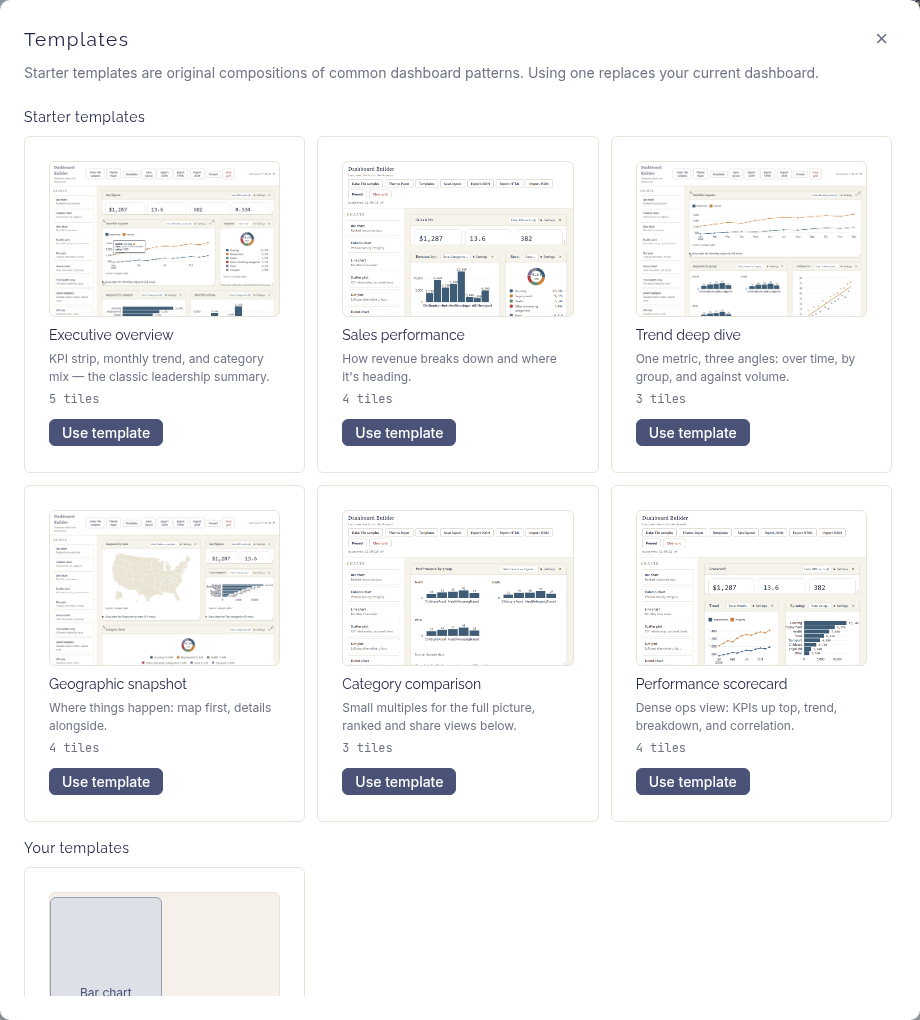
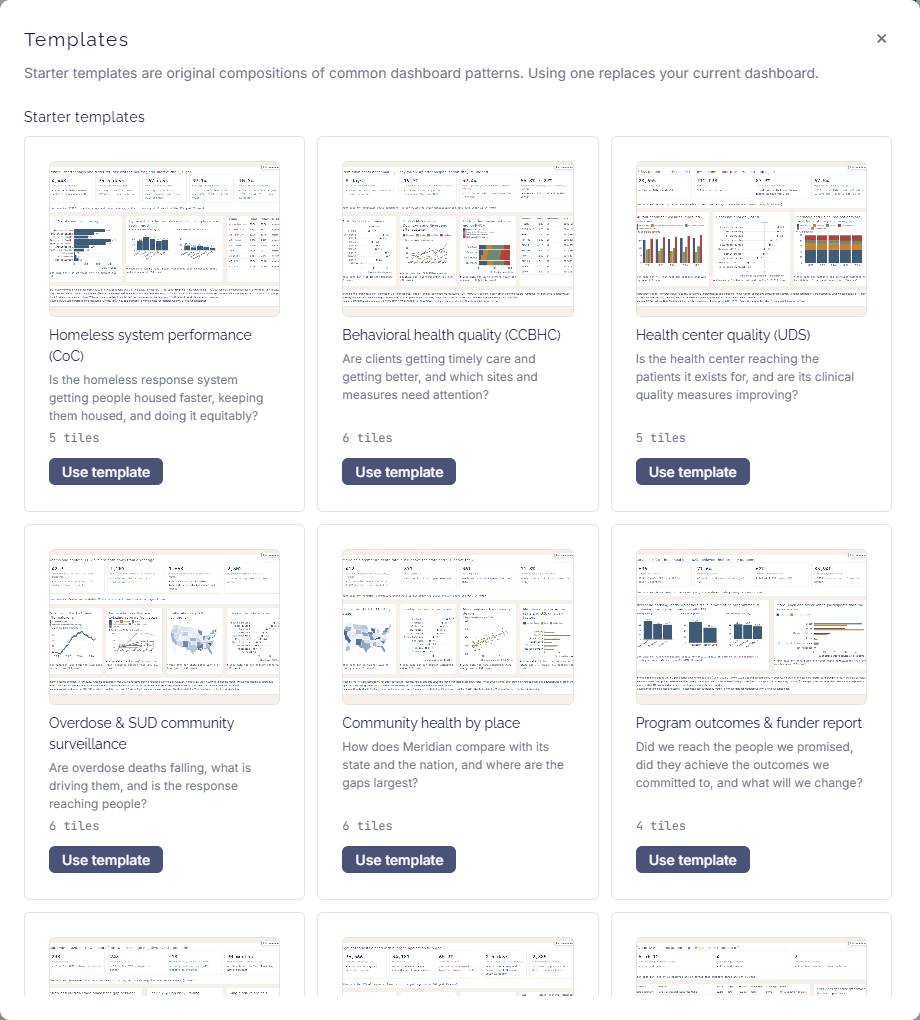
docs: recapture template gallery and demo for the exemplar main
README and docs/template-gallery.md now describe the 11 built-in
templates and the Meridian County starter. All 11 template shots are
recaptured (2880x1800, edit mode), the two cut ones are deleted, and
demo.gif is re-recorded on the new starter with the same five beats.

The capture scripts are adapted to the new starter and template set,
and spawn vite through node so they also run on Windows.

diff --git a/docs/template-gallery.md b/docs/template-gallery.md
@@ -1,35 +1,106 @@
-# Starter template gallery
+# Template gallery
 
 Open [Dashboard Builder](https://nateriera.github.io/dashboard-builder/), choose
 **More actions** → **Templates**, then select **Use template** and confirm
-**Replace** for a starter below. Replacement changes the current dashboard; use
+**Replace** for a template below. Replacement changes the current dashboard; use
 **More actions** → **Export JSON** first to keep a backup.
-These original layouts use built-in sample data, not client records.
+These original layouts use built-in sample data, not client records: the
+Meridian County figures are synthetic, for a fictitious jurisdiction.
+The templates appear here in the same order as the in-app gallery.
+
+## Homeless system performance (CoC)
+
+KPI strip of System Performance Measures, exits by destination, small multiples
+by race, and a year-over-year measures table.
+Use this to report whether a homeless response system is housing people faster,
+keeping them housed, and doing it equitably.
+
+![Homeless system performance (CoC)](screenshots/template-homeless-system-performance.png)
+
+## Behavioral health quality (CCBHC)
+
+KPI strip, measures against benchmark, a site-level remission trend, PHQ-9
+outcome bands by site, and a full measures table with numerators and
+denominators.
+Use this for a clinic or CCBHC quality review.
+
+![Behavioral health quality (CCBHC)](screenshots/template-behavioral-health-quality.png)
+
+## Health center quality (UDS)
+
+KPI strip, yearly clinical quality measures, measures against national rates,
+and payer mix by year.
+Use this for a community health center's UDS-style quality summary.
+
+![Health center quality (UDS)](screenshots/template-health-center-quality.png)
+
+## Overdose & SUD community surveillance
+
+KPI strip, the overdose death-rate trend, deaths by drug, a state map, and the
+highest state rates.
+Use this for public-health surveillance of overdose and the response to it.
+
+![Overdose & SUD community surveillance](screenshots/template-overdose-surveillance.png)
+
+## Community health by place
+
+KPI strip, a state map of uninsured rates, the highest rates, an uninsured vs
+early-death scatter plot, and county vs state vs U.S. comparisons.
+Use this to show where a community stands against its state and the nation.
+
+![Community health by place](screenshots/template-community-health-by-place.png)
+
+## Program outcomes & funder report
+
+KPI strip, outcomes by program as small multiples, and participants compared
+with the service area.
+Use this for a funder report on reach, outcomes and what will change.
+
+![Program outcomes & funder report](screenshots/template-program-outcomes.png)
+
+## System flow: inflow, outflow & actively homeless
+
+KPI strip, monthly inflow and outflow, the actively homeless count, and the
+count by household type.
+Use this to track a by-name list month by month.
+
+![System flow: inflow, outflow & actively homeless](screenshots/template-system-flow.png)
+
+## City services: 311 operations
+
+KPI strip, daily requests opened and closed, days to close against target,
+district comparison, and a request-type table.
+Use this for city operations staff watching timeliness and backlog.
+
+![City services: 311 operations](screenshots/template-city-services-311.png)
+
+## Performance scorecard (targets & thresholds)
+
+KPI strip, a scorecard table with printed status thresholds, and quarterly
+trends by perspective.
+Use this for a leadership scorecard of commitments on, near and off target.
+
+![Performance scorecard (targets & thresholds)](screenshots/template-performance-scorecard.png)
 
 ## Executive overview
 
-KPI strip, monthly trend, category share, ranked categories, and monthly volume.
+KPI strip, monthly revenue against last year, functions against budget, and
+actual vs budget by function.
 Use this as a starting point for a leadership summary.
 
 ![Executive overview](screenshots/template-executive-overview.png)
 
-## Trend deep dive
+## Sales performance
 
-Monthly line chart, small multiples by group, and volume/value scatter plot.
-Use this to explore one metric from several angles.
+KPI strip, reps against quota, monthly bookings against last year, open
+pipeline by stage, and deal size vs days to close.
+Use this for a sales team's forecast and pipeline review.
 
-![Trend deep dive](screenshots/template-trend-deep-dive.png)
+![Sales performance](screenshots/template-sales-performance.png)
 
-## Geographic snapshot
-
-State map, key figures, category breakdown, and category share.
-Use this for a geographic view with supporting detail.
-
-![Geographic snapshot](screenshots/template-geographic-snapshot.png)
-
-All six starter definitions live in [src/templates.js](../src/templates.js).
+All eleven template definitions live in [src/templates.js](../src/templates.js).
 This page embeds the captures in `docs/screenshots/`. The in-app gallery shows
-bundled thumbnails for the starters and schematic previews for custom saved
-templates, so private chart contents are not captured into an image.
+bundled thumbnails for the built-in templates and schematic previews for custom
+saved templates, so private chart contents are not captured into an image.
 Custom uploads and saved queries must travel with your dashboard to work in
 another browser; missing data references require repair.

diff --git a/README.md b/README.md
@@ -32,7 +32,7 @@
 - Save and reuse local data-wrangling recipes for grouping and calculated fields
 - Build ordered transform chains in the Transform tab: GroupBy, day/week/month Bucket, Between, Top, MovingAvg, Stats, Cumulative, Change, paired periods, Pivot, Histogram, and Ratio
 - Sort category charts ascending, descending, or by source order; optionally show the top 1–100 categories
-- 4 themes, 6 starter templates, save/load multi-page dashboards as JSON
+- 4 themes, 11 built-in templates plus a preloaded Meridian County starter dashboard, save/load multi-page dashboards as JSON
 - The exported file is one self-contained, offline HTML document — every page in one scrollable file, labeled as an offline snapshot, with a Restore exported filters button and print rules. Email it or host it anywhere; no server needed
 - Data-integrity guardrails: explicit binding modes, visible sampling notices, per-chart data tables
 
@@ -47,13 +47,13 @@ npm run dev
 
 ## Template gallery
 
-Explore three original sample dashboards in the [starter template gallery](docs/template-gallery.md):
+The composer opens on a Meridian County starter dashboard: 311 timeliness and
+homelessness at a glance, on synthetic data for a fictitious county. Eleven
+original built-in templates, from homeless system performance and behavioral
+health quality to 311 operations, scorecards and sales, are pictured in the
+[template gallery](docs/template-gallery.md).
 
-- **Executive overview** — KPIs, monthly trend, and category mix.
-- **Trend deep dive** — time series, small multiples, and scatter.
-- **Geographic snapshot** — state map with supporting metrics.
-
-Choose **More actions → Templates** in the composer to try these or the other three starters.
+Choose **More actions → Templates** in the composer to try any of the eleven.
 
 ## Beginner guides
 
@@ -343,8 +343,8 @@ are not promised; a cache hit is not a verified offline installation mode.
 
 ### Templates and release
 
-Six original starter templates and user-saved templates retain theme and tile
-options. Applying a template asks before replacing the dashboard. Templates
+Eleven original built-in templates and user-saved templates retain theme and
+tile options. Applying a template asks before replacing the dashboard. Templates
 contain data references, so missing uploads/queries require repair in another
 browser. Contributed templates must use original compositions rather than
 recreate another creator's dashboard.
